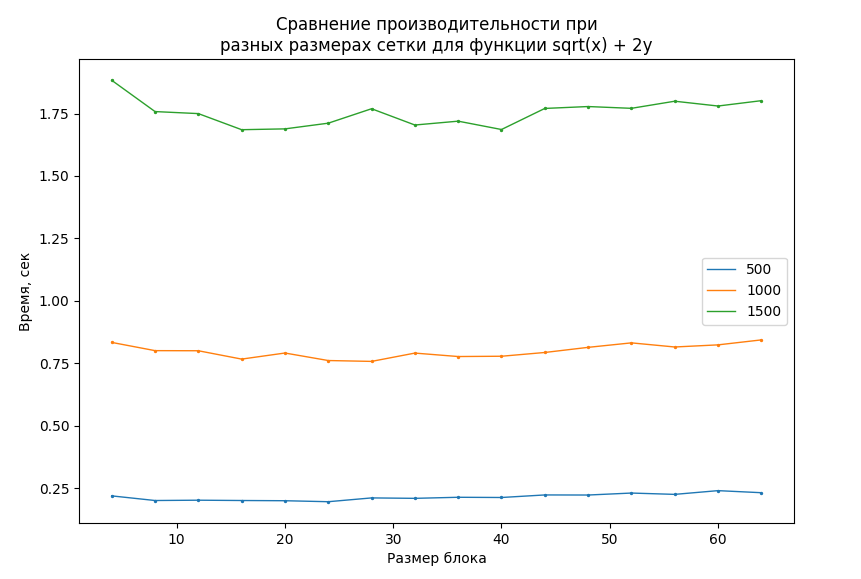
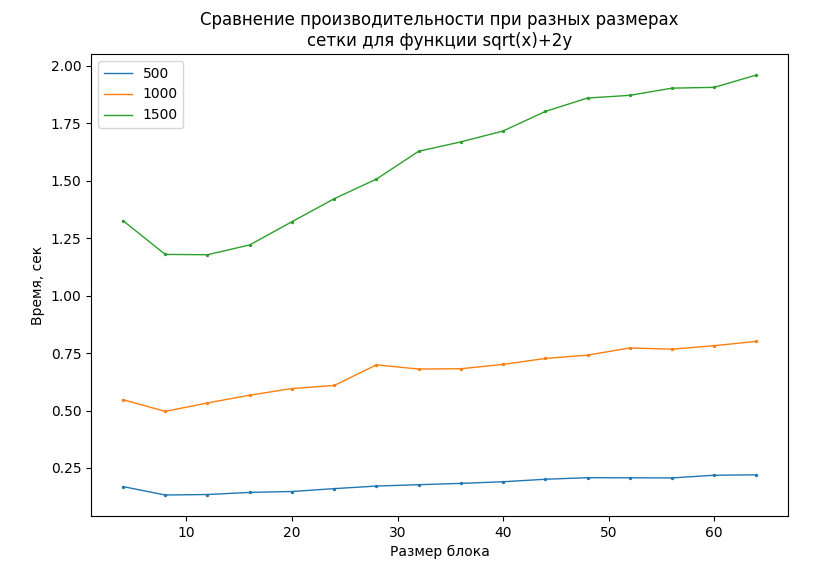
Fix diffsizes

diff --git a/work1/README.md b/work1/README.md
@@ -158,14 +158,21 @@
 
 ## Анализ времени работы при различных размерах блоков
 
-Зафиксируем $eps=10^{-3}$ и количество потоков = 4. Для функции $\sqrt(x)+2y$ рассмотрим время работы в зависимости от
-размера блока:
+Зафиксируем $eps=10^{-3}$ и количество потоков = 4. Для функции $\sqrt x +2y$ рассмотрим время работы в зависимости от
+размера блока. Каждый эксперимент за пустим 10 раз:
+
+<details>
+  <summary> График </summary>
 
 ![](https://github.com/aartdem/comp-math/blob/main/work1/imgs/diffsizes.png)
 
-Для данной функции размер блока заметнее влияет на производительность при увеличении N, но эти изменения малы по
-сравнению с самим временем работы. Даже при $n=1500$ явной зависимости установлено не было, что свидетельствует о том,
-что различия в значениях были вызваны погрешностью измерений.
+</details>
+
+Как видно из графика, для всех N самым оптимальным оказался размер блока в передалах [8;16].
+Также все три графика имеют локальный минимум, наиболее выраженный при N = 1500. Это можно объяснить тем, что чем больше размер блока, 
+тем параллелизм приносит меньшее ускорение. При этом чем меньше размер блока, тем чаще приходится переключаться между блоками, а учитывая, что 
+у наш алгоритм идет по блокам "волной", то чем чаще будет происходить такое переключение, тем чаще должна происходить перезапись кэша.
+Соответственно, точка локального минимума - та точка, где достигается "компромисс". 
 
 ## Ошибки аппроксимации
 
@@ -174,8 +181,12 @@ $$e=\dfrac 1 {N^2} \displaystyle\sum_{i = 1}^N\sum_{j = 1}^N \dfrac {\lvert u(i,
 \rvert}, $$    
 где $N$ - количество неграничных узлов в сетке, $h =\frac {1} {N+1}$, $g$ - функция, которую мы приближаем, $u(i,j)$ -
 значение получившейся функции в узле $(i,j)$.
+Природа функции не была главным фактором в этом эксперименте, основной целью было найти зависимость 
+ошибки от выбранного $eps$ для конкретной функции. Поэтому для простоты она была выбрана так ($\sqrt x + 2y$), чтобы скорость изменения была меньше по сравнению
+с ранее рассматриваемыми функциями. При это эксперимент запускался один раз, так как рассматриваемый алгоритм детерминированный 
+и для подсчета ошибки нет смысла запускать его более одного раза.
 
-При измерениях было установлено, что при уменьшении $eps$ достигалась лучшая точность. Это логично, так как алгоритм
+Итак, было установлено, что при уменьшении $eps$ достигалась лучшая точность. Это логично, так как алгоритм
 итерационный и при меньшем значении $eps$ он сделает больше итераций приближения функции:
 
 ![](https://github.com/aartdem/comp-math/blob/main/work1/imgs/error.png)
